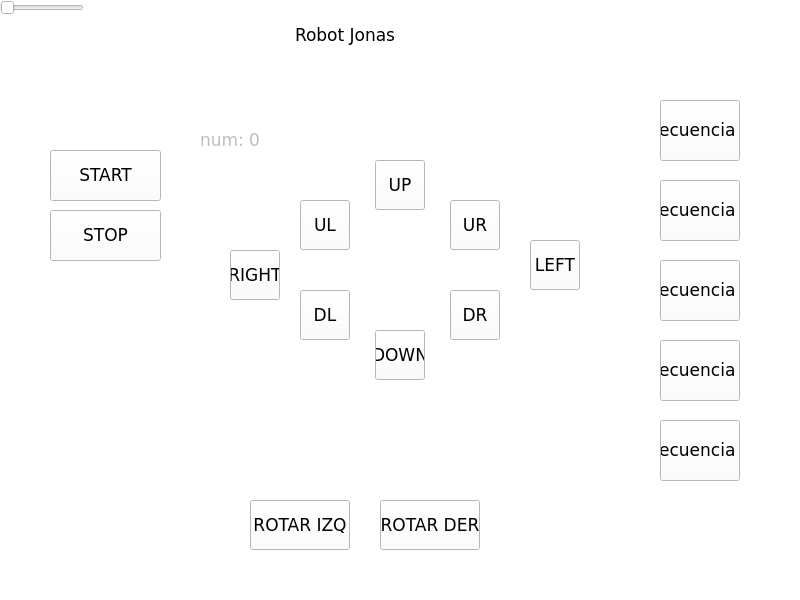
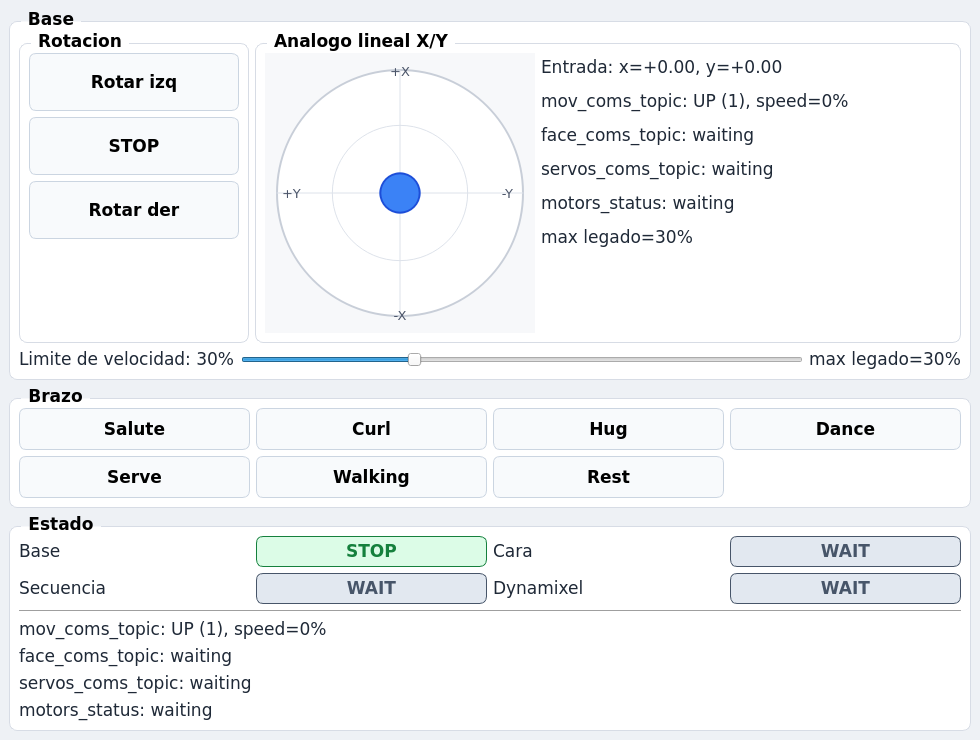
UPDATE README

diff --git a/README.md b/README.md
@@ -46,6 +46,8 @@ The `interface_pc` package provides the newer PyQt operator GUI adapted to the
 legacy Jonas topic architecture. It starts a ROS 2 node named `pyqt_gui`, does
 not depend on `jonas_interfaces_v2`, and publishes commands to three topics:
 
+![Jonas PC control interface](docs/interface_pc_gui.png)
+
 - `mov_coms_topic` (`std_msgs/Int16MultiArray`): mobile base movement command
   and speed percentage.
 - `face_coms_topic` (`std_msgs/String`): face expression command for the
@@ -90,12 +92,6 @@ The PC interface is normally launched with:
 
 ```bash
 ros2 launch jonas remote_pc.launch.py
-```
-
-The interface-only launch is also available:
-
-```bash
-ros2 launch jonas operator_pc.launch.py
 ```
 
 It can also be run directly after building and sourcing the workspace:
@@ -383,3 +379,9 @@ sudo usermod -aG dialout $USER
 ```
 
 Log out and back in, or reboot, so the group change takes effect.
+
+## Repository Origin
+
+This repository is an updated and improved version of the repository from which
+it was forked: <https://github.com/dumdumrobots/jonas>, by Joaquin Cornejo,
+master's student at TUM.
